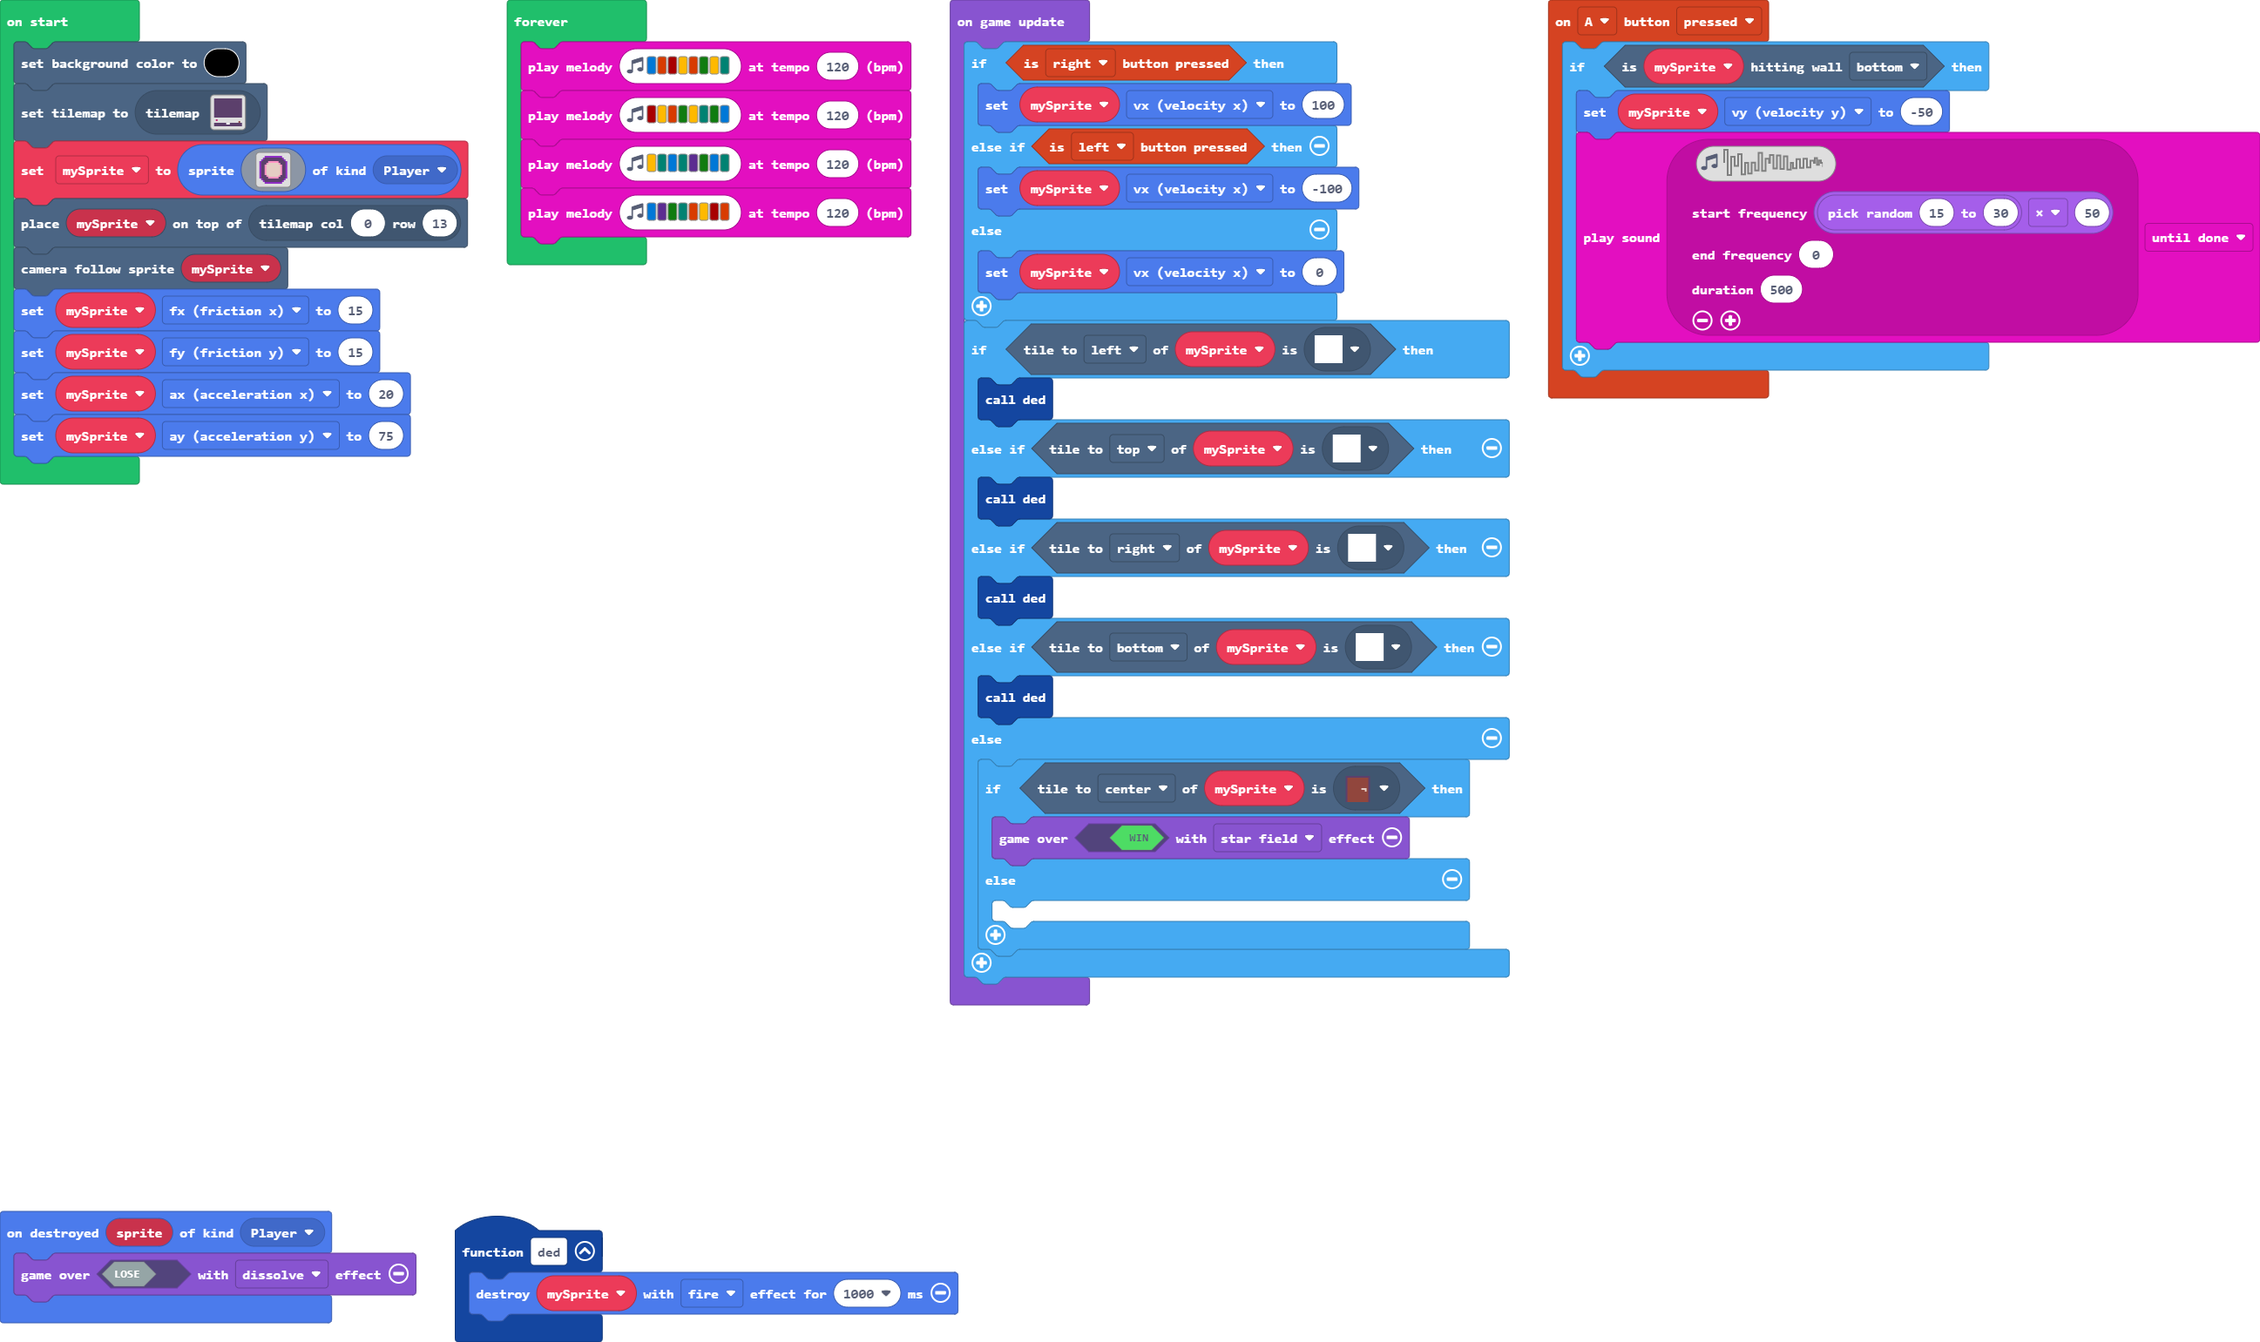
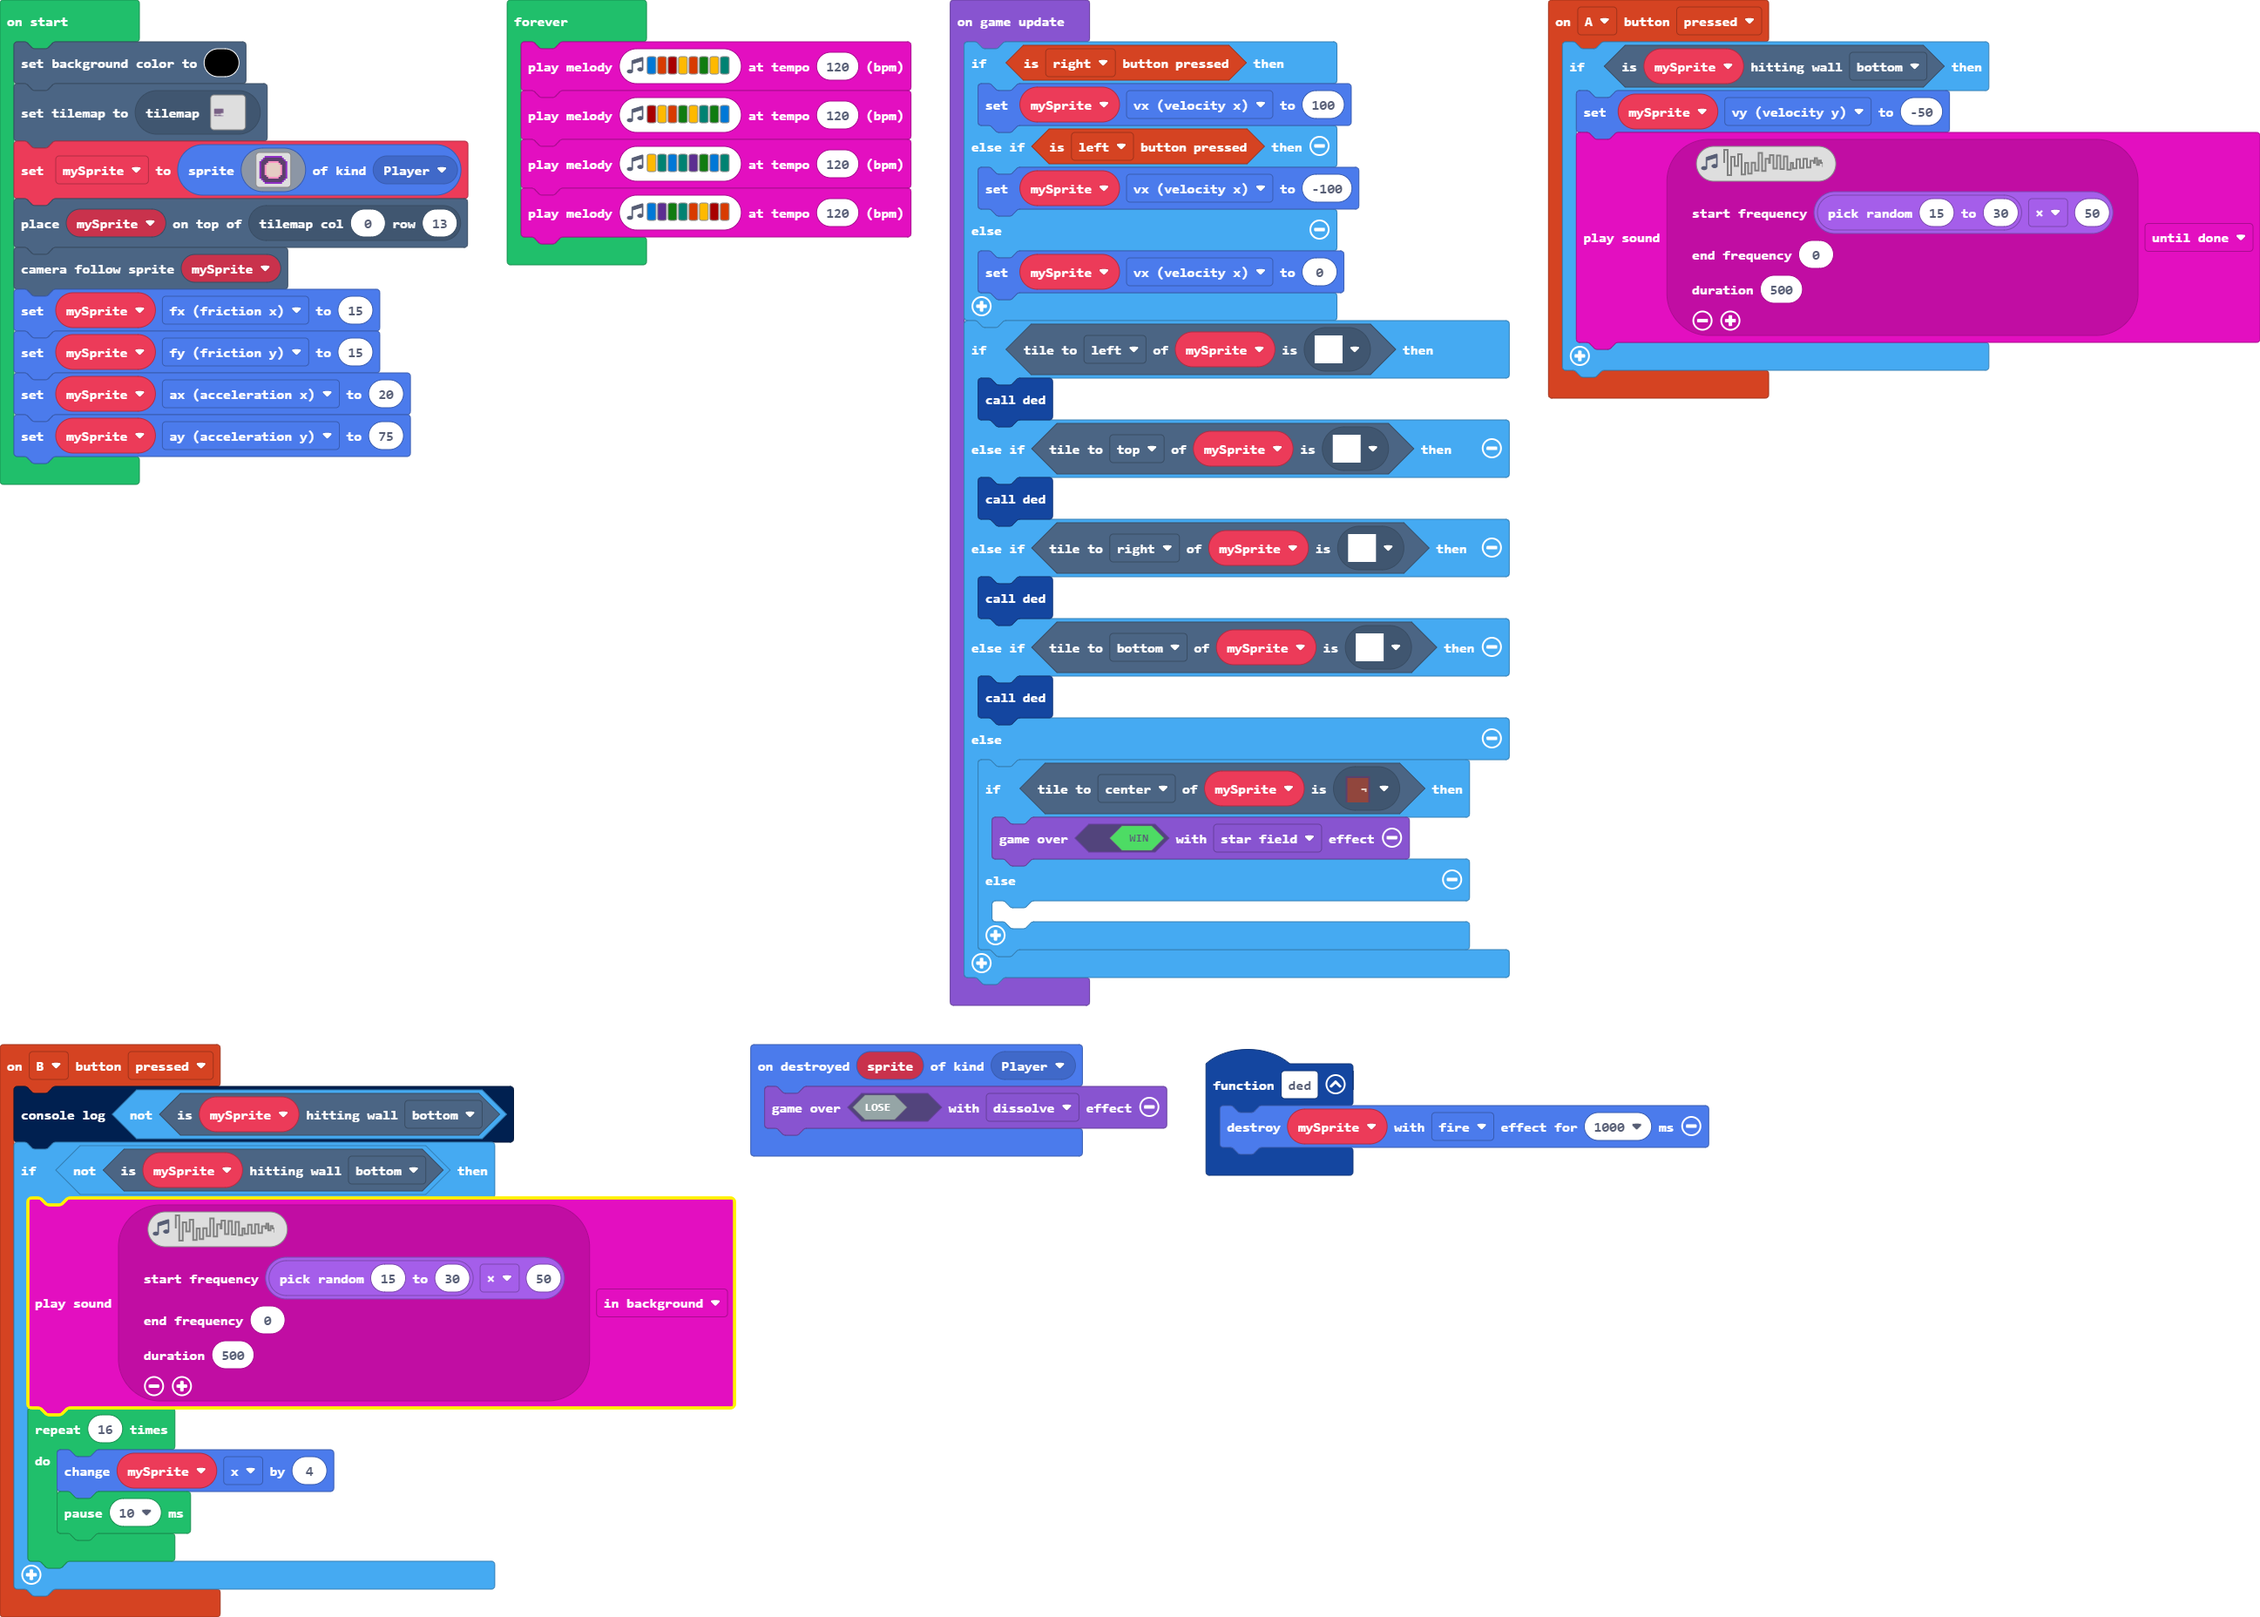
Added dash mechanic

diff --git a/tilemap.g.ts b/tilemap.g.ts
@@ -14,100 +14,24 @@ namespace myTiles {
     helpers._registerFactory("tilemap", function(name: string) {
         switch(helpers.stringTrim(name)) {
             case "level0":
-            case "level3":return tiles.createTilemap(hex`1000100001010101010101010101010101010101010101010101010101010101010101010101010101010101010101010101010101010101010101010101010101010101010101010101010101010101010101010101010101010101010101010101010101010101010101010101010101010101010101010101010101010101010101010101010101010101010101010101010101010101010101010101010101010101010101010101010101010101010101010000000000000000000000000000000000040000000000000000000000000000000000000000000000000000000003000101010101010102020101010101010101010101010101010101010101010101`, img`
-2 2 2 2 2 2 2 2 2 2 2 2 2 2 2 2 
-2 2 2 2 2 2 2 2 2 2 2 2 2 2 2 2 
-2 2 2 2 2 2 2 2 2 2 2 2 2 2 2 2 
-2 2 2 2 2 2 2 2 2 2 2 2 2 2 2 2 
-2 2 2 2 2 2 2 2 2 2 2 2 2 2 2 2 
-2 2 2 2 2 2 2 2 2 2 2 2 2 2 2 2 
-2 2 2 2 2 2 2 2 2 2 2 2 2 2 2 2 
-2 2 2 2 2 2 2 2 2 2 2 2 2 2 2 2 
-2 2 2 2 2 2 2 2 2 2 2 2 2 2 2 2 
-2 2 2 2 2 2 2 2 2 2 2 2 2 2 2 2 
-2 2 2 2 2 2 2 2 2 2 2 2 2 2 2 2 
-. . . . . . . . . . . . . . . . 
-. . . . . . . . . . . . . . . . 
-. . . . . . . . . . . . . . . . 
-2 2 2 2 2 2 2 2 2 2 2 2 2 2 2 2 
-2 2 2 2 2 2 2 2 2 2 2 2 2 2 2 2 
-`, [myTiles.transparency16,myTiles.tile1,myTiles.tile2,myTiles.tile3,myTiles.tile4], TileScale.Sixteen);
-            case "level1":
-            case "level1":return tiles.createTilemap(hex`4000100001010101010101010101010101010101010101010101010101010101010100000000000000000000000000000000000000000000000000000000000000000000010101010101010101010101010101010101010101010101010101010101000000000000000000000000000000000000000000000000000000000000000000000101010101010101010101010101010101010101010101010101010101010000000000000000000000000000000000000000000000000000000000000000000001010101010101010101010101010101010101010101010101010101010100000000000000000000000000000000000000000000000000000000000000000000010101010101010101010101010101010101010101010101010101010101000000000000000000000000000000000000000000000000000000000000000000000101010101010101010101010101010101010101010101010101010101010000000000000000000000000000000000000000000000000000000000000000000001010101010101010101010101010101010101010101010101010101010100000000000000000000000000000000000000000000000000000000000000000000010101010101010101010101010101010101010101010101010101010101000000000000000000000000000000000000000000000000000000000000000000000101010101010101010101010101010101010101010101010101010101010000000000000000000000000000000000000000000000000000000000000000000000000000000000000000000000000000000000000000000000000000000000000000000000000000000000000000000000000000000000000000000000000000000000000000000000000000000000000000000000000000000000000000000000000000000000000000030000000000000000000000000000000000000000000000000000000000000000000000000000000000000000000000000000000000000000000000000001000100000000000000000000000000000000000000000000000000000000000000000000000000000000000000000000000000000000000000000000010100000000000000000000000000000000000000000000000000000000000000000000000000000000000000000000000000000000000000000101010100000000000000000000000000000000000000000000000000000000000000000000000000000000000000000000000000000000000000000000000000000000000000000000000000000000000000000000000000000000000000000001010101010101010101010101010101010101010101010101010101010102020202020202020202020202020202000000000000000000000000000000000000`, img`
-222222222222222222222222222222..................................
-222222222222222222222222222222..................................
-222222222222222222222222222222..................................
-222222222222222222222222222222..................................
-222222222222222222222222222222..................................
-222222222222222222222222222222..................................
-222222222222222222222222222222..................................
-222222222222222222222222222222..................................
-222222222222222222222222222222..................................
+            case "level3":return tiles.createTilemap(hex`4000100001010101010101010101010101010101010101010100000000000000000000000000000000000000000000000000000000000000000000000000000000000000010101010101010101010101010101010101010101000000000000000000000000000000000000000000000000000000000000000000000000000000000000000101010101010101010101010101010101010101010000000000000000000000000000000000000000000000000000000000000000000000000000000000000001010101010101010101010101010101010101010100000000000000000000000000000000000000000000000000000000000000000000000000000000000000010101010101010101010101010101010101010101000000000000000000000000000000000000000000000000000000000000000000000000000000000000000101010101010101010101010101010101010101010000000000000000000000000000000000000000000000000000000000000000000000000000000000000001010101010101010101010101010101010101010100000000000000000000000000000000000000000000000000000000000000000000000000000000000000010101010101010101010101010101010101010101000000000000000000000000000000000000000000000000000000000000000000000000000000000000000101010101010101010101010101010101010101010000000000000000000000000000000000000000000000000000000000000000000000000000000000000001010101010101010101010101010101010101010100000000000000000000000000000000000000000000000000000000000000000000000000000000000000010101010101010101010101010101010202020202000000000000000000000000000000000000000000000000000000000000000000000000000000000000000000000000000000000000000000000000000000000000000000000000000000000000000000000000000000000000000000000000000000000000000000000000030000000000000000000000000000000000000000000000000000000000000000000000000000000000000000000000000000000000000000000000000000000000000000000000000000000000000000000000000000000000000000000000000000000000000000000000000000000000000000000000000000000000000101010101010102020101010101010102020202020000000000000000000000000000000000000000000000000000000000000000000000000000000000000001010101010101010101010101010101010101010100000000000000000000000000000000000000000000000000000000000000000000000000000000000000`, img`
+2222222222222222................................................
+2222222222222222................................................
+2222222222222222................................................
+2222222222222222................................................
+2222222222222222................................................
+2222222222222222................................................
+2222222222222222................................................
+2222222222222222................................................
+2222222222222222................................................
+2222222222222222................................................
+2222222222222222................................................
 ................................................................
 ................................................................
-........................................2.2.....................
-.....................................22.........................
-...............................2222.............................
 ................................................................
-2222222222222222222222222222222222222222222222..................
-`, [myTiles.transparency16,myTiles.tile1,myTiles.tile2,myTiles.tile3], TileScale.Sixteen);
-            case "level2":
-            case "level2":return tiles.createTilemap(hex`1000100000000000000000000000000000000000000000000000000000000000000000000000000000000000000000000000000000000000000000000000000000000000000000000000000000000000000000000000000000000000000000000000000000000000000000000000000000000000000000000000000000000000000000000000000000000000000000000000000000000000000000000000000000000000000000000000000000000000000000000000000000000000000000000000000000000000000000000000000000000000000000000000000000000000000000000000000000000000000000000000000000000000000000000000000000000000`, img`
-. . . . . . . . . . . . . . . . 
-. . . . . . . . . . . . . . . . 
-. . . . . . . . . . . . . . . . 
-. . . . . . . . . . . . . . . . 
-. . . . . . . . . . . . . . . . 
-. . . . . . . . . . . . . . . . 
-. . . . . . . . . . . . . . . . 
-. . . . . . . . . . . . . . . . 
-. . . . . . . . . . . . . . . . 
-. . . . . . . . . . . . . . . . 
-. . . . . . . . . . . . . . . . 
-. . . . . . . . . . . . . . . . 
-. . . . . . . . . . . . . . . . 
-. . . . . . . . . . . . . . . . 
-. . . . . . . . . . . . . . . . 
-. . . . . . . . . . . . . . . . 
-`, [myTiles.transparency16], TileScale.Sixteen);
-            case "level4":
-            case "level4":return tiles.createTilemap(hex`1000100000000000000000000000000000000000000000000000000000000000000000000000000000000000000000000000000000000000000000000000000000000000000000000000000000000000000000000000000000000000000000000000000000000000000000000000000000000000000000000000000000000000000000000000000000000000000000000000000000000000000000000000000000000000000000000000000000000000000000000000000000000000000000000000000000000000000000000000000000000000000000000000000000000000000000000000000000000000000000000000000000000000000000000000000000000000`, img`
-. . . . . . . . . . . . . . . . 
-. . . . . . . . . . . . . . . . 
-. . . . . . . . . . . . . . . . 
-. . . . . . . . . . . . . . . . 
-. . . . . . . . . . . . . . . . 
-. . . . . . . . . . . . . . . . 
-. . . . . . . . . . . . . . . . 
-. . . . . . . . . . . . . . . . 
-. . . . . . . . . . . . . . . . 
-. . . . . . . . . . . . . . . . 
-. . . . . . . . . . . . . . . . 
-. . . . . . . . . . . . . . . . 
-. . . . . . . . . . . . . . . . 
-. . . . . . . . . . . . . . . . 
-. . . . . . . . . . . . . . . . 
-. . . . . . . . . . . . . . . . 
-`, [myTiles.transparency16], TileScale.Sixteen);
-            case "level5":
-            case "level5":return tiles.createTilemap(hex`1000100000000000000000000000000000000000000000000000000000000000000000000000000000000000000000000000000000000000000000000000000000000000000000000000000000000000000000000000000000000000000000000000000000000000000000000000000000000000000000000000000000000000000000000000000000000000000000000000000000000000000000000000000000000000000000000000000000000000000000000000000000000000000000000000000000000000000000000000000000000000000000000000000000000000000000000000000000000000000000000000000000000000000000000000000000000000`, img`
-. . . . . . . . . . . . . . . . 
-. . . . . . . . . . . . . . . . 
-. . . . . . . . . . . . . . . . 
-. . . . . . . . . . . . . . . . 
-. . . . . . . . . . . . . . . . 
-. . . . . . . . . . . . . . . . 
-. . . . . . . . . . . . . . . . 
-. . . . . . . . . . . . . . . . 
-. . . . . . . . . . . . . . . . 
-. . . . . . . . . . . . . . . . 
-. . . . . . . . . . . . . . . . 
-. . . . . . . . . . . . . . . . 
-. . . . . . . . . . . . . . . . 
-. . . . . . . . . . . . . . . . 
-. . . . . . . . . . . . . . . . 
-. . . . . . . . . . . . . . . . 
-`, [myTiles.transparency16], TileScale.Sixteen);
+2222222222222222................................................
+2222222222222222................................................
+`, [myTiles.transparency16,myTiles.tile1,myTiles.tile2,myTiles.tile4], TileScale.Sixteen);
         }
         return null;
     })

diff --git a/main.ts b/main.ts
@@ -1,3 +1,22 @@
+controller.B.onEvent(ControllerButtonEvent.Pressed, function () {
+    console.log(!(mySprite.isHittingTile(CollisionDirection.Bottom)))
+    if (!(mySprite.isHittingTile(CollisionDirection.Bottom))) {
+        music.playSoundEffect(music.createSoundEffect(
+        WaveShape.Noise,
+        randint(15, 30) * 50,
+        0,
+        1024,
+        0,
+        500,
+        SoundExpressionEffect.Warble,
+        InterpolationCurve.Linear
+        ), SoundExpressionPlayMode.InBackground)
+        for (let index = 0; index < 16; index++) {
+            mySprite.x += 4
+            pause(10)
+        }
+    }
+})
 controller.A.onEvent(ControllerButtonEvent.Pressed, function () {
     if (mySprite.isHittingTile(CollisionDirection.Bottom)) {
         mySprite.vy = -50
